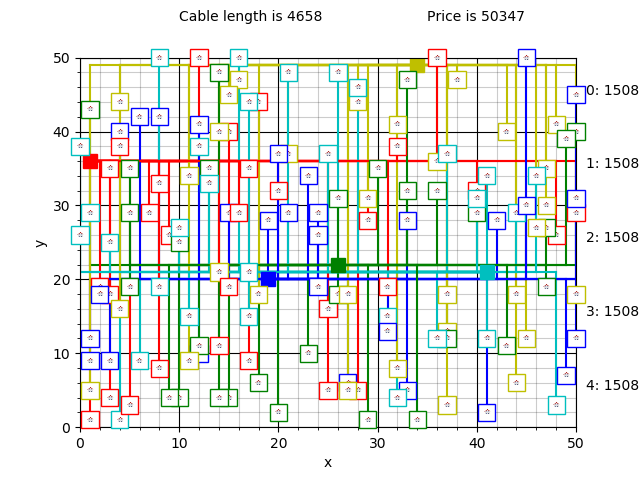
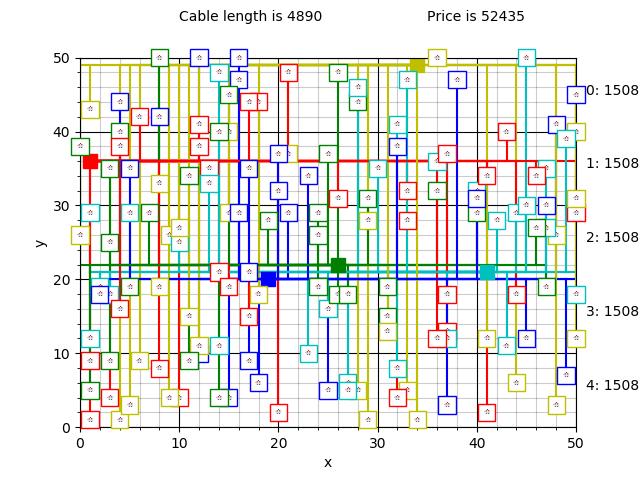
update hill climber

diff --git a/Algorithms/hill_climber.py b/Algorithms/hill_climber.py
@@ -4,25 +4,30 @@
 from Functions.switcher import switching_algorithm
 from Classes.neighborhood_classes import Neighborhood_class
 from Functions.download_data import download_data
-from Functions.score_function_test import score_function
+from Functions.score_function import score_function
 import random
+import csv
 
 def hill_climber(all_info):
+	info_iterations = []
+	info_cable_length = []
 	range_loops = all_info.iterations 
 	# print("start hill_climber")
 	for i in range(range_loops):
-		print(i)
+		# print("iteration {}".format(i))
 		# random selection of two batteries
 		select_battery = random.sample(all_info.batteries , 2)
 		house_list_battery_0 = select_battery[0].houses_list
-		# print(select_battery)
+		print(select_battery[0].id)
+		print(select_battery[1].id)
 		
 		# random selection of a house out of the first sampled battery 
 		# [0] behind it to get the first item out of the list (eventhough there is only 1 item, still need to do this)
 		select_house = random.sample(house_list_battery_0, 1)[0]
 		# print(select_house)
 		
-		# loop through all houses connected to the second battery 
+		# loop through all houses connected to the second battery
+		# for house in select_battery[1].houses_list: 
 		for house in select_battery[1].houses_list:
 			# Check if current selected house has a voltage bigger + battery.spare_voltage bigger than other selected house and if random selected house + battery.spare_voltage is bigger than the other selected house
 			if (select_house.voltage + select_battery[0].spare_voltage) >= house.voltage and (house.voltage + select_battery[1].spare_voltage) >= select_house.voltage:
@@ -32,14 +37,20 @@ def hill_climber(all_info):
 				# calculate cable length current and option
 				cable_length = 0
 				current_houses = [select_house, house]
-				print("id selected battery {}".format(select_battery[1].id))
+				# print("id selected battery {}".format(select_battery[1].id))
+				# print(select_battery[1].x)
 				# print(select_battery[1].y)
-				print("id selected battery {}".format(select_battery[0].id))
-				# print(select_battery[0].y)
+				# print("id selected battery {}".format(select_battery[0].id))
+				# print(select_battery[0].x)
+				# print(select_battery[1].y)
 				# print(house.x)
 				# print(house.y)
 				# print(select_house.x)
 				# print(select_house.y)
+				# print("first selected battery_number {}".format(select_battery[0].id))
+				# print(select_house.id)
+				# print("second selected battery_number {}".format(select_battery[1].id))
+				# print(house.id)
 				cable_length_overview = []
 				# compare options between selected house in first battery, current house in second battery, selected house to seconde battery, current house to first battery  
 				options = [0, 0, 1, 1, 0, 1, 1, 0]
@@ -55,11 +66,8 @@ def hill_climber(all_info):
 					cable_length += abs(b_x - h_x)
 					# print(cable_length)
 					cable_length_overview.append(cable_length)
-<<<<<<< HEAD
 					cable_length = 0
 					# print(cable_length)
-=======
->>>>>>> 4595e35f9825aae8657c112fd87d28ef80af1cc8
 					add = add + 2
 				# print(cable_length_overview)
 
@@ -67,23 +75,30 @@ def hill_climber(all_info):
 				cable_length_current = cable_length_overview[0] + cable_length_overview[1]
 				cable_length_future = cable_length_overview[2] + cable_length_overview[3]
 
-				print("current {}".format(cable_length_current))
-				print("future {}".format(cable_length_future))
+				# print("current {}".format(cable_length_current))
+				# print("future {}".format(cable_length_future))
 
 				# If that is the case check the cable lenghts of houses to other battery if sum cable length of new situation is shorter than original cable length 
 				if cable_length_current > cable_length_future:
-					print("second won!!")
+					# print("first selected battery_number {}".format(select_battery[0].id))
+					# print(select_house.id)
+					# print(select_house.battery_no)
+					# print("second selected battery_number {}".format(select_battery[1].id))
+					# print(house.id)
+					# print(house.battery_no)
+					# print("second won!!")
 					# If that is the case execute the switch of battery
 					# change the information in the batteries list
-					select_battery[0].spare_voltage += select_house - house
-					select_battery[1] += select_house - house
+					select_battery[0].spare_voltage += select_house.voltage - house.voltage
+					select_battery[1].spare_voltage += select_house.voltage - house.voltage
 
 					# change the information of the changed houses
-					temp = select_house.select_battery[0]
-					select_house.select_battery[0] = house.select_battery[1]
-					house.select_battery[1] = temp
-					
-<<<<<<< HEAD
+					temp = select_house.battery_no
+					select_house.battery_no = house.battery_no
+					house.battery_no = temp
+					# print(select_house.battery_no)
+					# print(house.battery_no)
+					break
 					# print("switch")
 		# save info
 		info_iterations.append(i)
@@ -91,6 +106,14 @@ def hill_climber(all_info):
 
 		info_cable_length.append(score_function(all_info).cable_length)
 		# print(info_cable_length)
+		# for battery in all_info.batteries:
+		# 	print("battery id: {}".format(battery.id))
+		# 	for house in battery.houses_list:
+		# 		print("house number: {}".format(house.id))
+
+	for house in all_info.houses:
+		print("house id: {}".format(house.id))
+		print("house is coupled to battery: {}".format(house.battery_no))
 
 	with open(("hillclimber.csv"), "w") as csvfile:
 		fieldnames = ["iterations", "cable_length"]
@@ -98,8 +121,5 @@ def hill_climber(all_info):
 		writer.writeheader()
 		for j in range(len(info_iterations)):
 			writer.writerow({fieldnames[0]: info_iterations[j], fieldnames[1]: info_cable_length[j]})
-
-=======
-					print("switch")
->>>>>>> 4595e35f9825aae8657c112fd87d28ef80af1cc8
+		# print("switch")
 	return all_info
